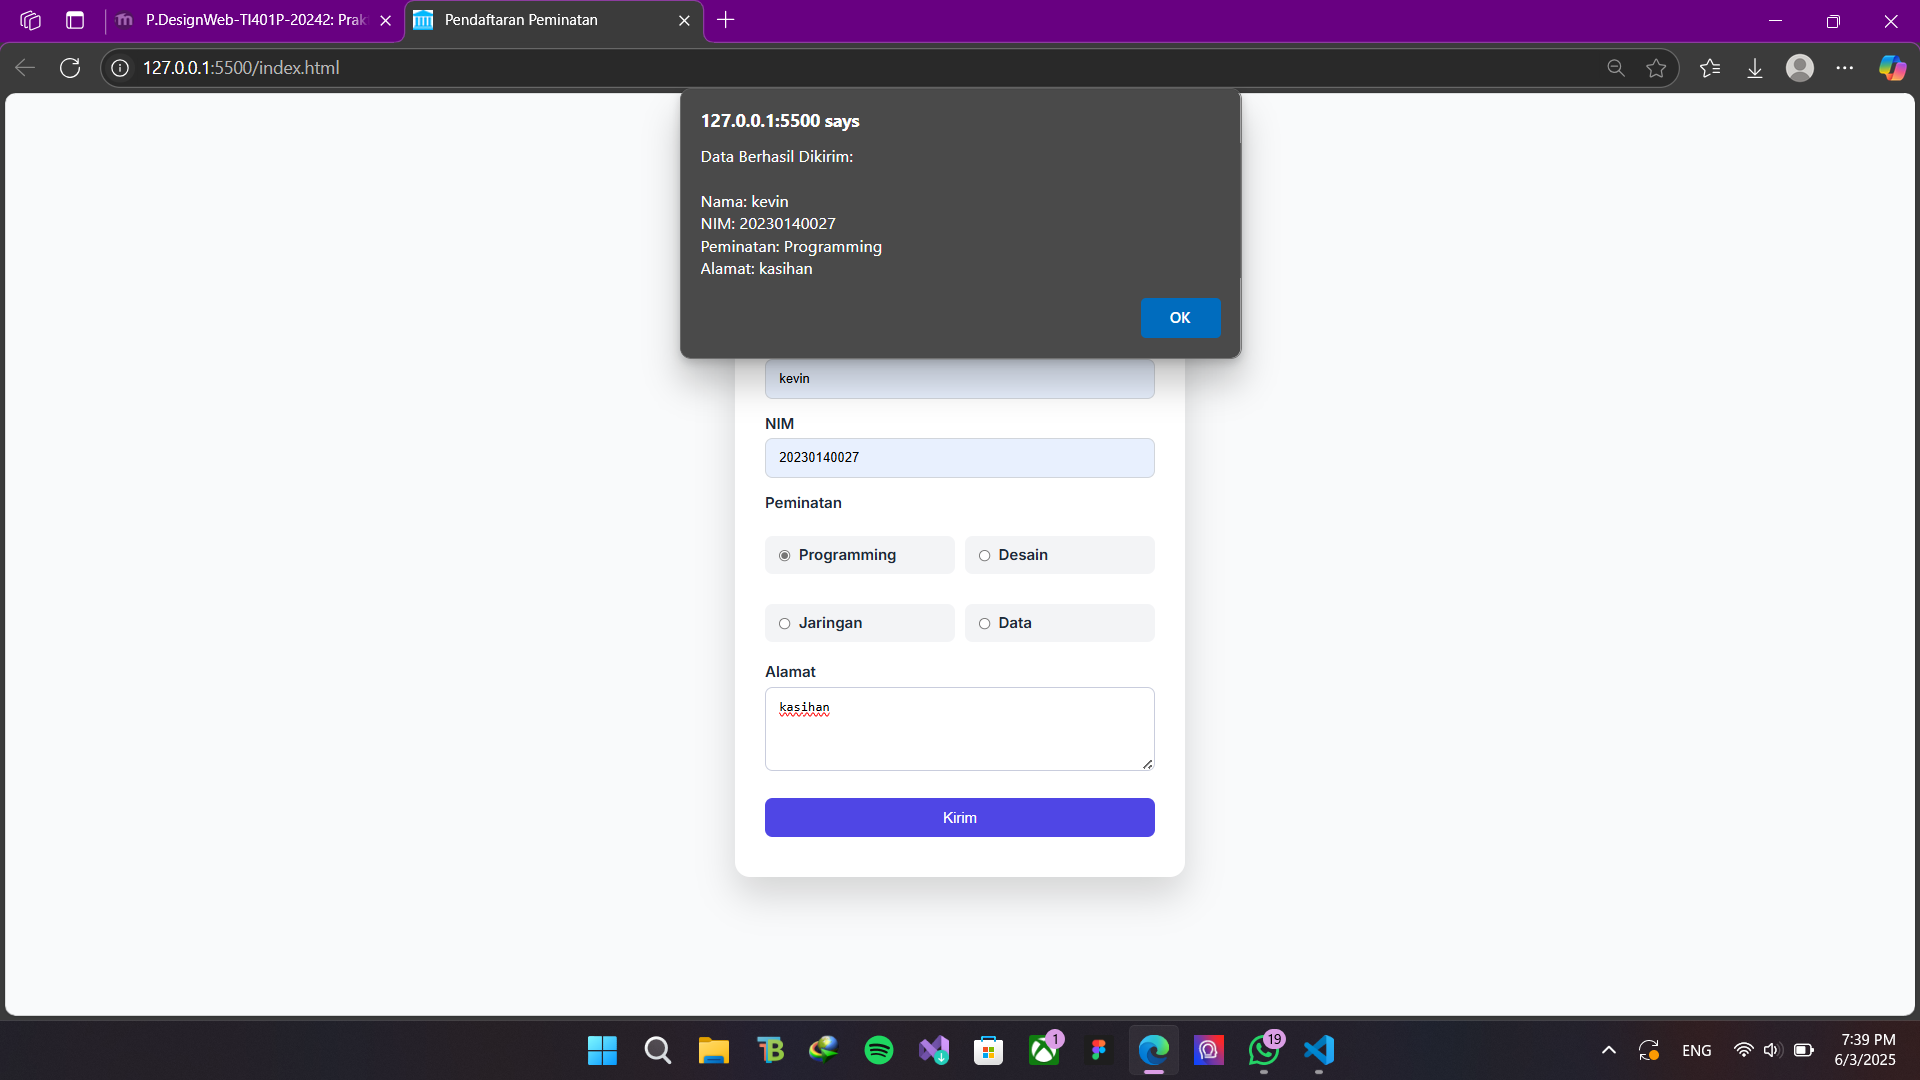
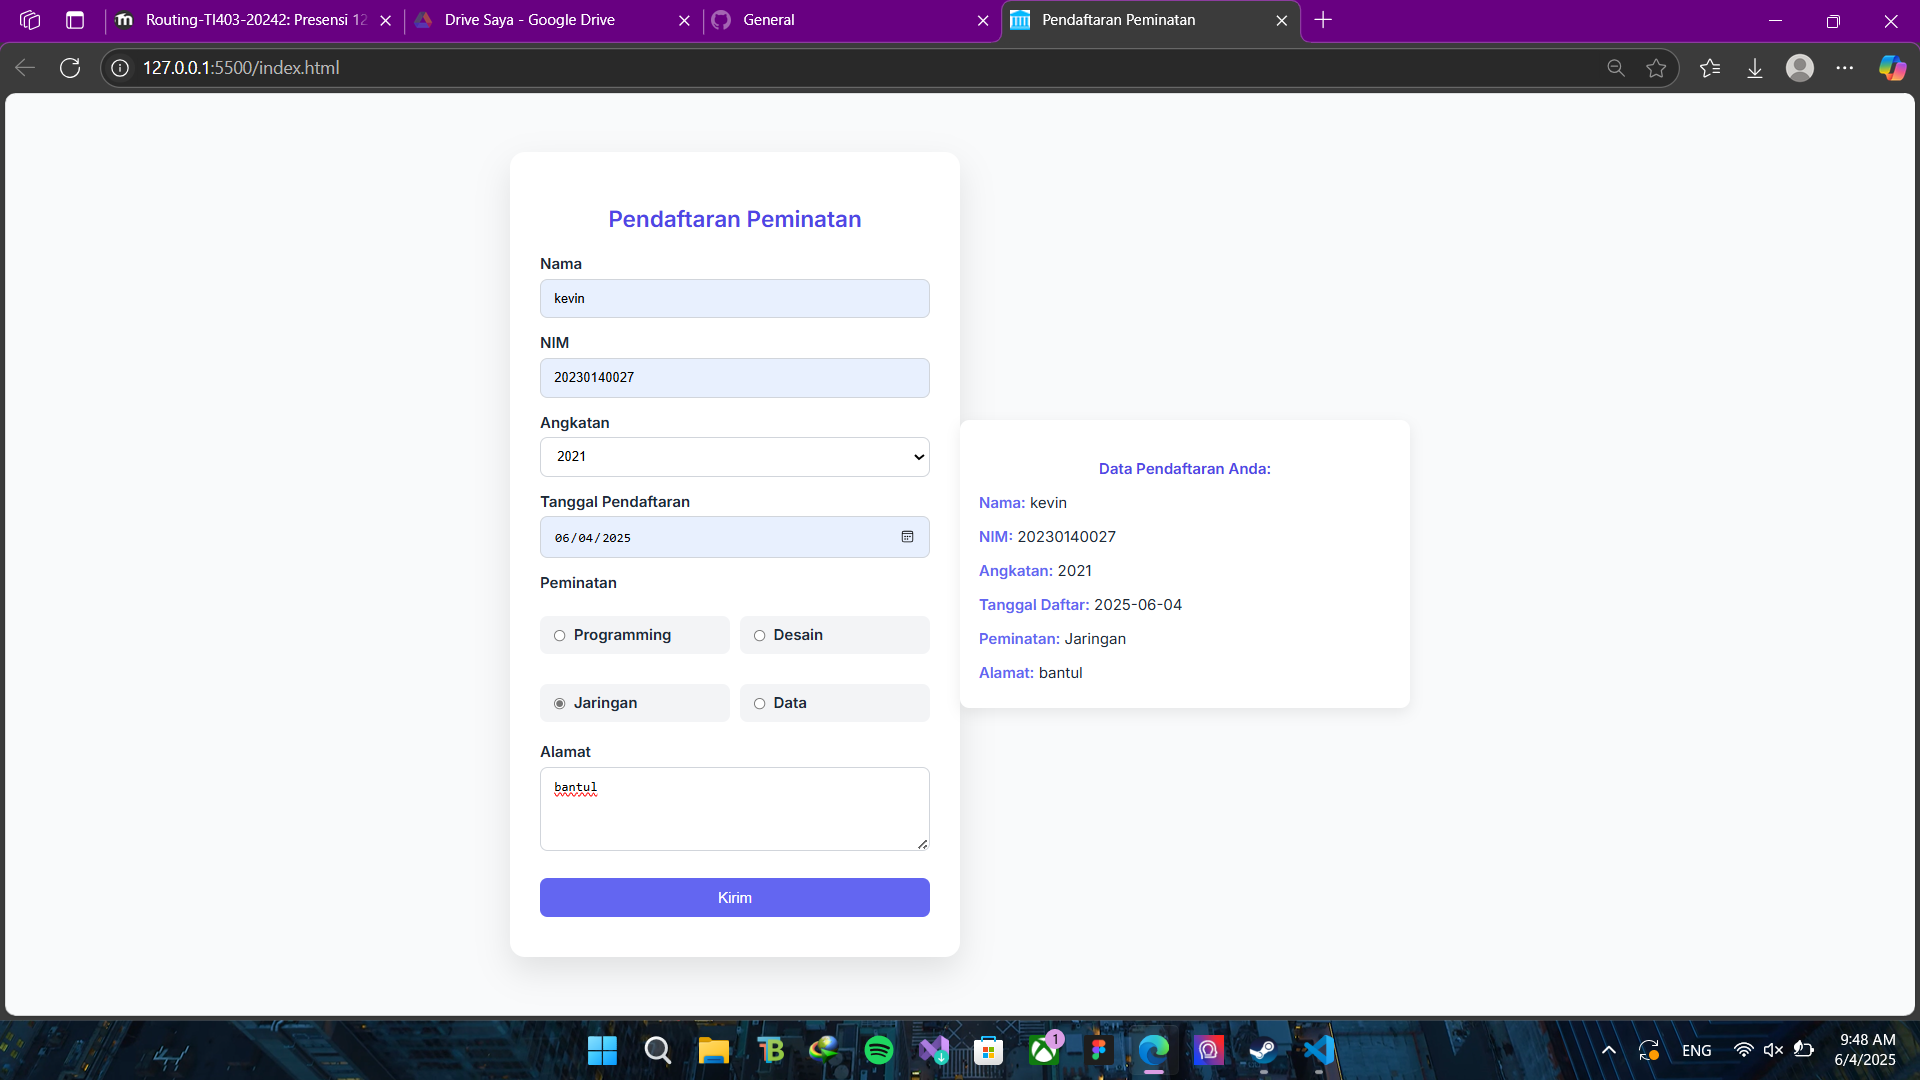
tambahan

diff --git a/script.js b/script.js
@@ -1,29 +1,65 @@
-document.addEventListener("DOMContentLoaded", function () {
-  const form = document.getElementById("formPeminatan");
-  const errorMsg = document.getElementById("errorMsg");
+document.addEventListener('DOMContentLoaded', () => {
+  const formPeminatan = document.getElementById('formPeminatan');
+  const outputContainer = document.getElementById('outputContainer');
+  const outputNama = document.getElementById('outputNama');
+  const outputNim = document.getElementById('outputNim');
+  const outputAngkatan = document.getElementById('outputAngkatan');
+  const outputTanggalDaftar = document.getElementById('outputTanggalDaftar');
+  const outputPeminatan = document.getElementById('outputPeminatan');
+  const outputAlamat = document.getElementById('outputAlamat');
 
-  form.addEventListener("submit", function (event) {
-    event.preventDefault(); // Mencegah submit default
+  formPeminatan.addEventListener('submit', function(event) {
+    event.preventDefault();
 
-    const nama = document.getElementById("nama").value.trim();
-    const nim = document.getElementById("nim").value.trim();
-    const alamat = document.getElementById("alamat").value.trim();
-    const peminatanRadio = document.querySelector("input[name='peminatan']:checked");
+    const nama = document.getElementById('nama').value.trim();
+    const nim = document.getElementById('nim').value.trim();
+    const angkatan = document.getElementById('angkatan').value;
+    const tanggalDaftar = document.getElementById('tanggalDaftar').value;
+    const alamat = document.getElementById('alamat').value.trim();
+    const selectedPeminatan = document.querySelector('input[name="peminatan"]:checked');
 
-    if (!nama || !nim || !peminatanRadio || !alamat) {
-      errorMsg.textContent = "Semua kolom harus diisi.";
+    // Validasi input
+    if (!nama || !nim || !angkatan || !tanggalDaftar || !alamat || !selectedPeminatan) {
+      Swal.fire({
+        icon: 'warning',
+        title: 'Oops!',
+        text: 'Semua kolom harus diisi!',
+        confirmButtonColor: '#6366f1'
+      });
+      outputContainer.style.display = 'none';
       return;
     }
 
-    const peminatan = peminatanRadio.value;
-    errorMsg.textContent = ""; // Clear error
+    if (!/^\d{11}$/.test(nim)) {
+      Swal.fire({
+        icon: 'error',
+        title: 'Format NIM Salah!',
+        text: 'NIM harus berupa 11 digit angka.',
+        confirmButtonColor: '#6366f1'
+      });
+      outputContainer.style.display = 'none';
+      return;
+    }
 
-    // Tampilkan hasil
-    alert(
-      `Data Berhasil Dikirim:\n\nNama: ${nama}\nNIM: ${nim}\nPeminatan: ${peminatan}\nAlamat: ${alamat}`
-    );
+    // Jika validasi sukses
+    outputNama.textContent = nama;
+    outputNim.textContent = nim;
+    outputAngkatan.textContent = angkatan;
+    outputTanggalDaftar.textContent = tanggalDaftar;
+    outputPeminatan.textContent = selectedPeminatan.value;
+    outputAlamat.textContent = alamat;
 
-    // Reset form (opsional)
-    form.reset();
+    outputContainer.style.display = 'block';
+
+    Swal.fire({
+      icon: 'success',
+      title: 'Berhasil!',
+      text: 'Data pendaftaran berhasil ditampilkan.',
+      timer: 1500,
+      showConfirmButton: false
+    });
+
+    // Opsional: Reset form setelah submit
+    // formPeminatan.reset();
   });
 });

diff --git a/index.html b/index.html
@@ -56,7 +56,9 @@
     }
 
     input[type="text"],
-    textarea {
+    input[type="date"], /* Tambahkan styling untuk input date */
+    textarea,
+    select { /* Tambahkan styling untuk select */
       width: 100%;
       padding: 12px 14px;
       border: 1px solid #d1d5db;
@@ -66,7 +68,8 @@
     }
 
     input:focus,
-    textarea:focus {
+    textarea:focus,
+    select:focus { /* Tambahkan focus styling untuk select */
       border-color: var(--primary);
       outline: none;
     }
@@ -120,6 +123,31 @@
       text-align: center;
     }
 
+    .output-card {
+      background: white;
+      padding: 20px;
+      border-radius: 10px;
+      box-shadow: 0 5px 15px rgba(0, 0, 0, 0.08);
+      margin-top: 20px;
+      width: 100%;
+      max-width: 480px;
+    }
+
+    .output-card h4 {
+      text-align: center;
+      color: var(--primary-dark);
+      margin-bottom: 15px;
+    }
+
+    .output-card p {
+      margin-bottom: 8px;
+      color: var(--text);
+    }
+
+    .output-card p strong {
+      color: var(--primary);
+    }
+
     @media (max-width: 500px) {
       .card {
         padding: 24px;
@@ -136,6 +164,19 @@
 
       <label for="nim">NIM</label>
       <input type="text" id="nim" placeholder="Contoh: 20230140138" />
+
+      <label for="angkatan">Angkatan</label>
+      <select id="angkatan">
+        <option value="">Pilih Angkatan</option>
+        <option value="2020">2020</option>
+        <option value="2021">2021</option>
+        <option value="2022">2022</option>
+        <option value="2023">2023</option>
+        <option value="2024">2024</option>
+      </select>
+
+      <label for="tanggalDaftar">Tanggal Pendaftaran</label>
+      <input type="date" id="tanggalDaftar" />
 
       <label>Peminatan</label>
       <div class="radio-group">
@@ -159,6 +200,16 @@
       <button type="submit">Kirim</button>
       <div id="errorMsg" class="error"></div>
     </form>
+  </div>
+
+  <div id="outputContainer" class="output-card" style="display: none;">
+    <h4>Data Pendaftaran Anda:</h4>
+    <p><strong>Nama:</strong> <span id="outputNama"></span></p>
+    <p><strong>NIM:</strong> <span id="outputNim"></span></p>
+    <p><strong>Angkatan:</strong> <span id="outputAngkatan"></span></p>
+    <p><strong>Tanggal Daftar:</strong> <span id="outputTanggalDaftar"></span></p>
+    <p><strong>Peminatan:</strong> <span id="outputPeminatan"></span></p>
+    <p><strong>Alamat:</strong> <span id="outputAlamat"></span></p>
   </div>
 
   <script src="script.js"></script>
